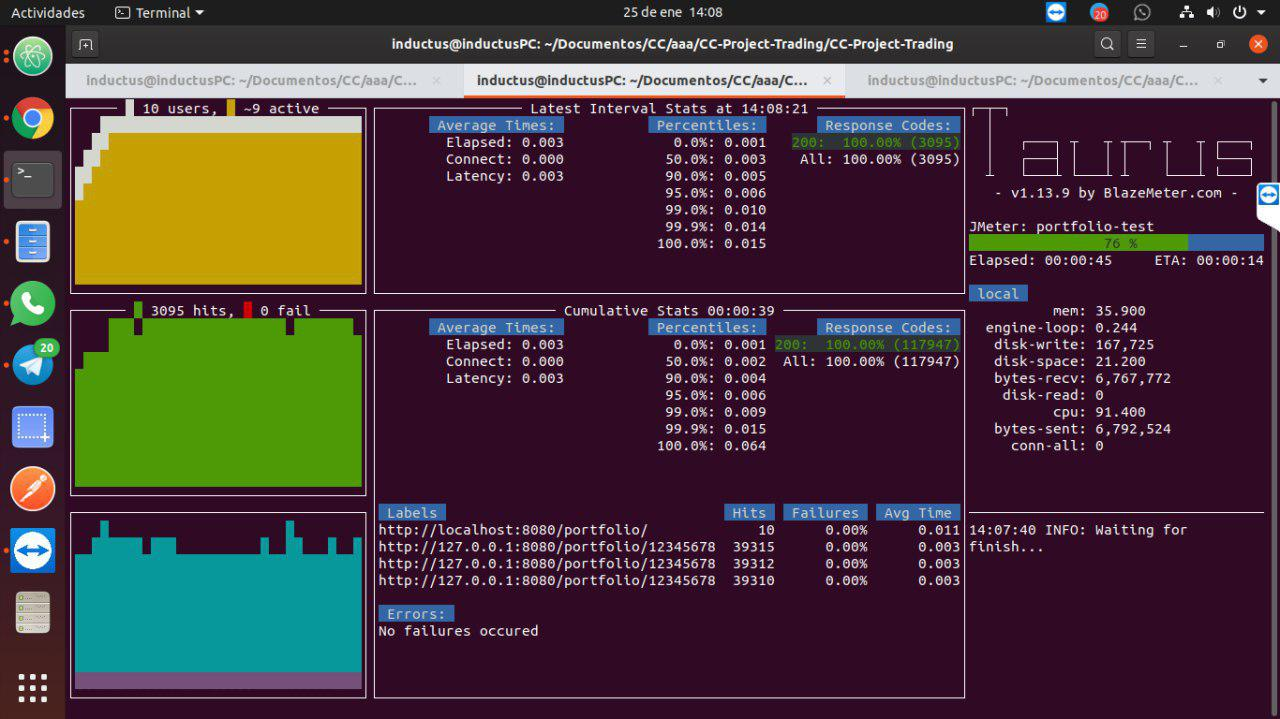
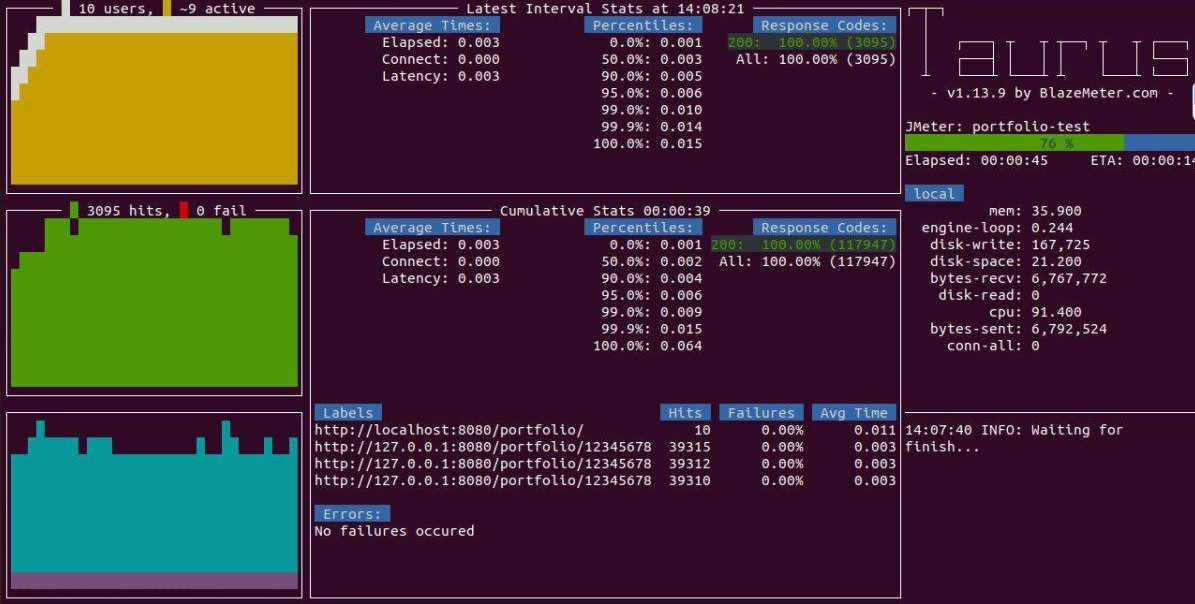
Documentando prestaciones

diff --git a/README.md b/README.md
@@ -102,7 +102,7 @@ Por último para poder acceder a esta base de datos, deberemos obtener el uri ac
 
 Para que nuestros microservicios puedan interactuar con la base de datos en MongoDB desde Python, se va a utilizar PyMongo, una distribución de Python que contiene herramientas para trabajar con MongoDB. Para administrar la base de datos desde Python se ha creado una clase especifica que nos va a permitir realizar operaciones sobre la base de datos, dicha clase puede consultarse en el siguiente [enlace](https://github.com/Solano96/CC-Project-Trading/blob/master/src/Portfolio/portfolio_db.py). Se ha creado además otra clase que implementa la lógica del microservicio, a la cual se le inyecta directamente como atributo en el constructor, un objeto de la clase que administra la base de datos. De esta forma se consigue aplicar el patrón de inyección de dependencias, consiguiendo que la lógica del microservicio se despreocupe de como esté implementada la clase que accede a la base de datos.
 
-La integración de la base de datos supone realizar algunos cambios, que vamos a mostrar a continuación:
+La integración de la base de datos supone realizar algunos cambios en la integración continua, que vamos a mostrar a continuación:
 
 - **Travis**: para que podamos acceder a la base de datos desde travis deberemos de añadir mongodb como servicio.
 
@@ -119,10 +119,30 @@ La integración de la base de datos supone realizar algunos cambios, que vamos a
 
 	```
 	env:
-		DB_NAME_PORTFOLIO: ${{ secrets.DB_NAME_PORTFOLIO }}
 		DB_URI: ${{ secrets.DB_URI }}
 	```
 
 
-
 ## Evaluación de prestaciones
+
+Prestaciones: performance_test.yml
+
+#### Prueba 1
+
+La primera prueba ha sido realizada en local, con el
+
+![](docs/img/hito4/prestaciones_terminal_local_mongoatlas.png)
+
+![](docs/img/hito4/prestaciones_web_local_mongoatlas.png)
+
+#### Prueba 2
+
+![](docs/img/hito4/prestaciones_terminal_local_mipc.png)
+
+![](docs/img/hito4/prestaciones_web_local_mipc.png)
+
+#### Prueba 3
+
+![](docs/img/hito4/prestaciones_terminal_local.jpg)
+
+![](docs/img/hito4/prestaciones_web_local.jpg)
